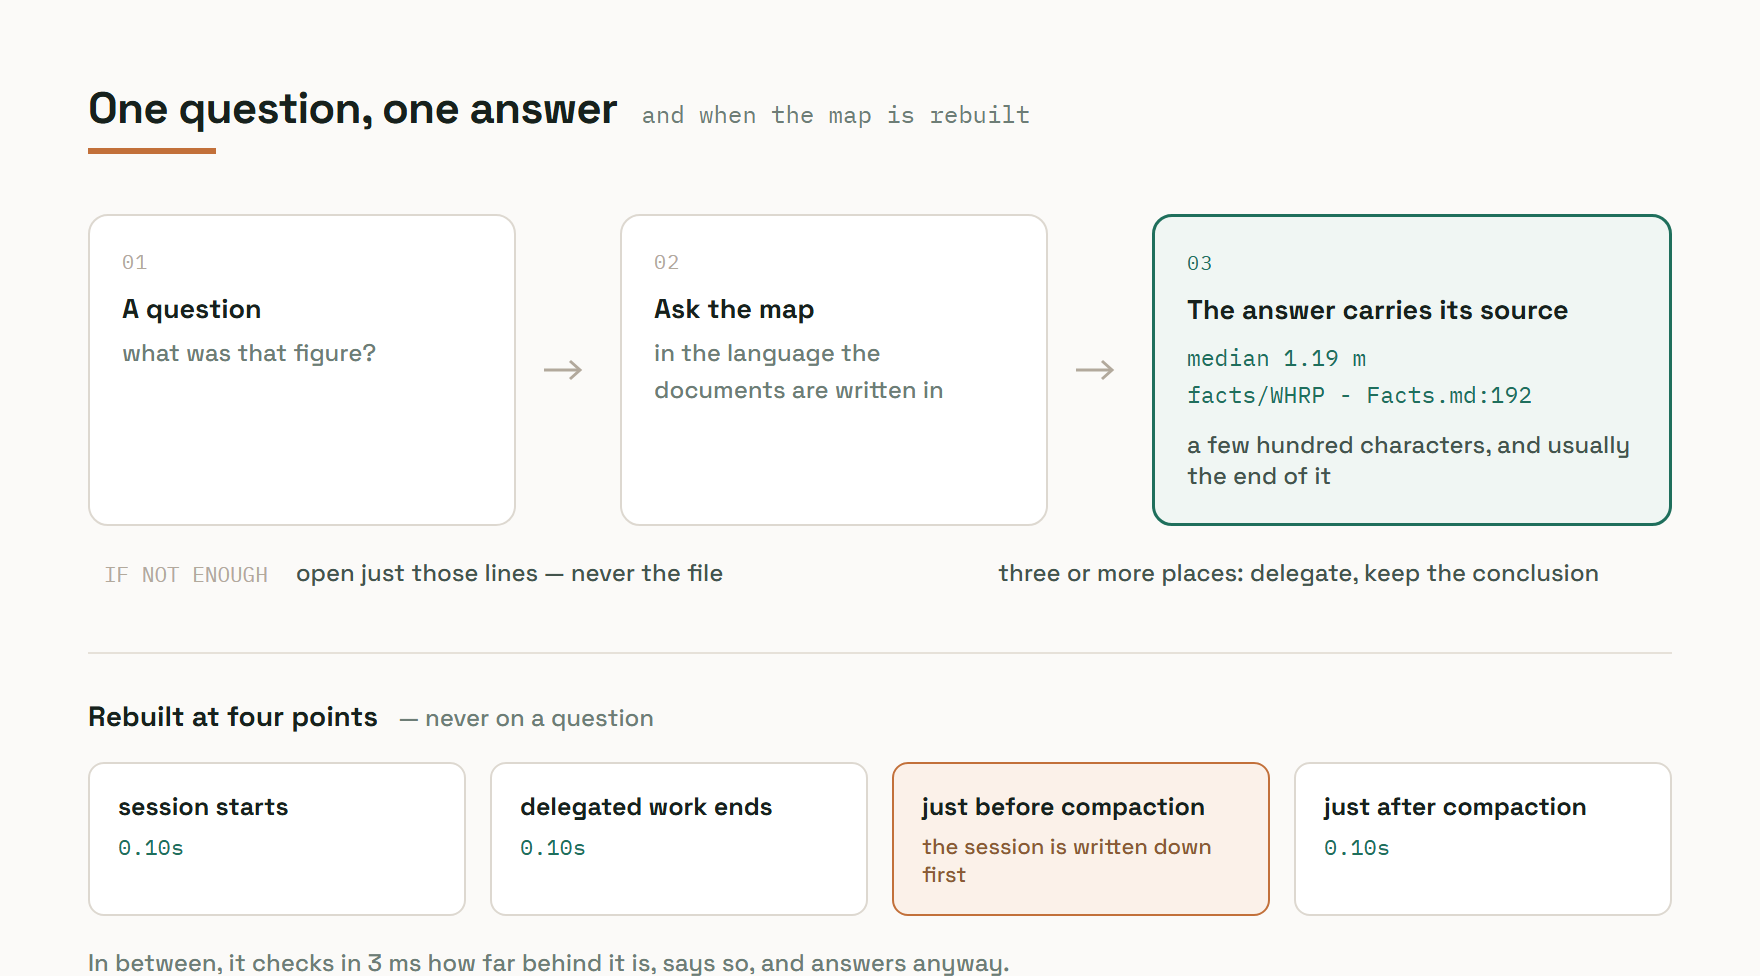
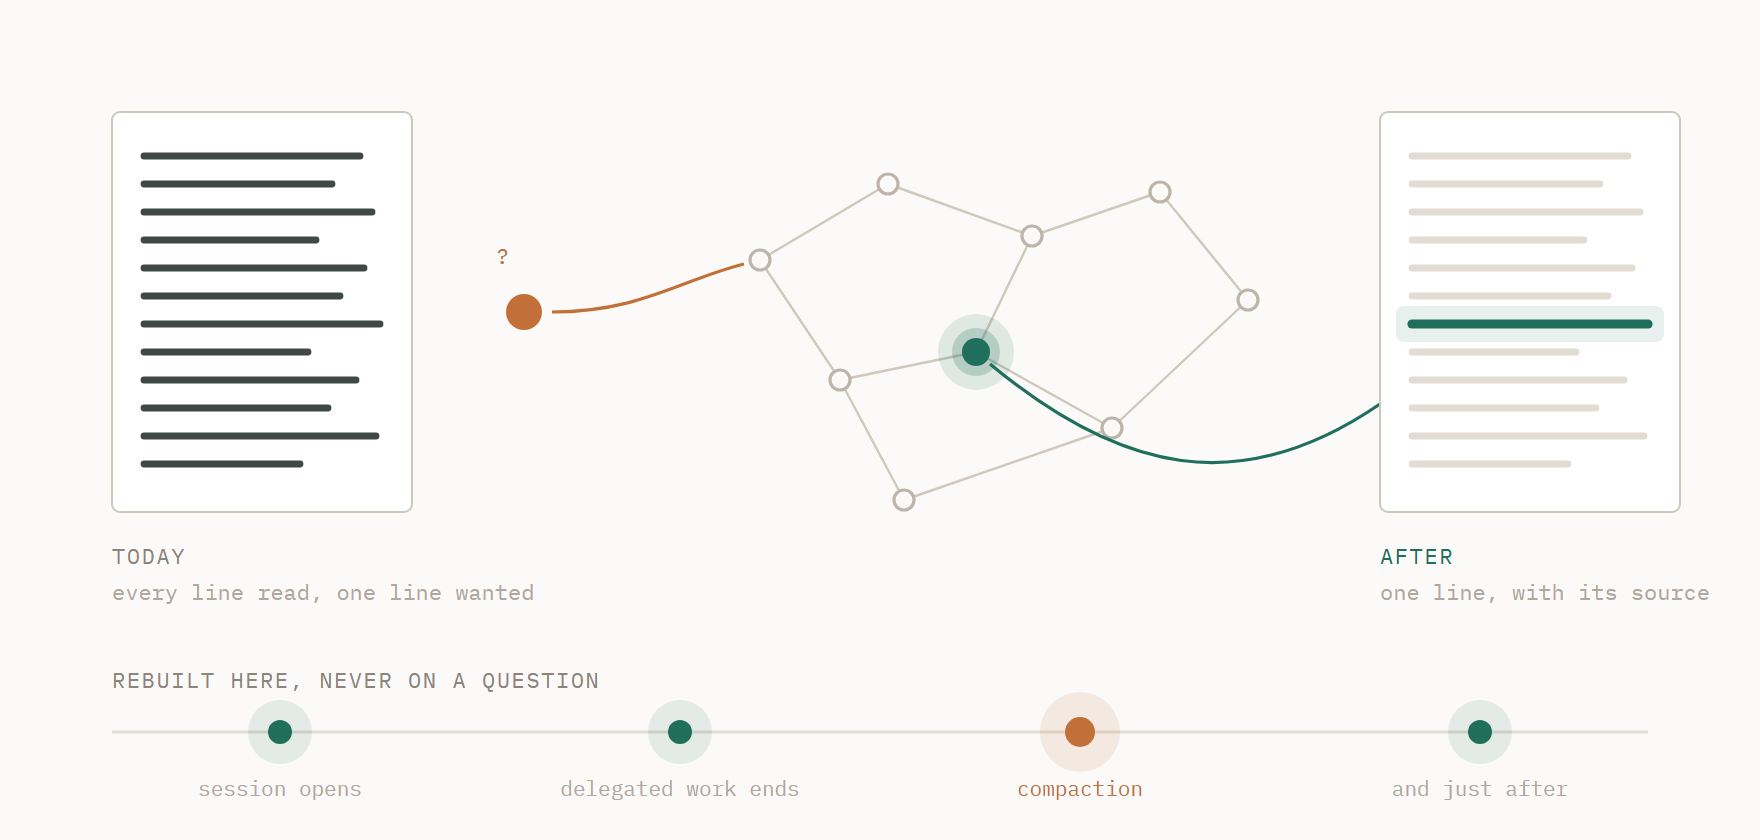
docs: redraw the readme diagrams as pictures rather than labelled boxes

diff --git a/design/Flow.dc.html b/design/Flow.dc.html
@@ -7,85 +7,87 @@
 <body>
 <x-dc>
 <helmet>
-  <link rel="stylesheet" href="https://fonts.googleapis.com/css2?family=Space+Grotesk:wght@500;700&family=IBM+Plex+Mono:wght@400;600&display=swap">
+  <link rel="stylesheet" href="https://fonts.googleapis.com/css2?family=IBM+Plex+Mono:wght@400;600&display=swap">
   <style>
     body { margin: 0; background: #fbfaf8; }
     a { color: #1f6f5c; } a:hover { color: #14503f; }
   </style>
 </helmet>
 
-<div style="width: 880px; padding: 40px 44px; box-sizing: border-box; background: #fbfaf8; font-family: 'Space Grotesk', ui-sans-serif, system-ui, sans-serif; color: #17211d;">
+<div style="width: 880px; height: 420px; background: #fbfaf8;">
+  <svg width="880" height="420" viewBox="0 0 880 420" fill="none" xmlns="http://www.w3.org/2000/svg"
+       font-family="'IBM Plex Mono', ui-monospace, monospace">
 
-  <div style="display: flex; align-items: baseline; gap: 12px; margin-bottom: 6px;">
-    <div style="font-size: 22px; font-weight: 700; letter-spacing: -0.4px;">One question, one answer</div>
-    <div style="font-family: 'IBM Plex Mono', ui-monospace, monospace; font-size: 12px; color: #6d7d76;">and when the map is rebuilt</div>
-  </div>
-  <div style="height: 3px; width: 64px; background: #c2703a; margin-bottom: 30px;"></div>
+    <!-- 왼쪽: 지금. 답 하나를 얻으려 페이지 전체를 읽습니다 -->
+    <rect x="56" y="56" width="150" height="200" rx="4" fill="#ffffff" stroke="#cfc8bd"/>
+    <g stroke="#17211d" stroke-width="3.4" stroke-linecap="round" opacity="0.82">
+      <path d="M72 78 H180"/><path d="M72 92 H166"/><path d="M72 106 H186"/>
+      <path d="M72 120 H158"/><path d="M72 134 H182"/><path d="M72 148 H170"/>
+      <path d="M72 162 H190"/><path d="M72 176 H154"/><path d="M72 190 H178"/>
+      <path d="M72 204 H164"/><path d="M72 218 H188"/><path d="M72 232 H150"/>
+    </g>
+    <text x="56" y="282" font-size="11" fill="#8d857a" letter-spacing="0.8">TODAY</text>
+    <text x="56" y="300" font-size="11" fill="#b0a89c">every line read, one line wanted</text>
 
-  <div style="display: flex; align-items: stretch; gap: 14px; margin-bottom: 14px;">
+    <!-- 가운데: 물음이 지도를 지나갑니다 -->
+    <circle cx="262" cy="156" r="9" fill="#c2703a"/>
+    <path d="M276 156 C320 156 340 140 372 132" stroke="#c2703a" stroke-width="1.6"/>
+    <text x="248" y="132" font-size="11" fill="#c2703a">?</text>
 
-    <div style="flex: 1 1 0; border: 1px solid #ddd8d0; border-radius: 10px; padding: 16px; background: #ffffff;">
-      <div style="font-family: 'IBM Plex Mono', ui-monospace, monospace; font-size: 10px; color: #b2a99c; letter-spacing: 0.6px; margin-bottom: 8px;">01</div>
-      <div style="font-size: 13.5px; font-weight: 700;">A question</div>
-      <div style="font-size: 12px; color: #6d7d76; line-height: 1.55; margin-top: 4px;">what was that figure?</div>
-    </div>
+    <g stroke="#cfc8bd" stroke-width="1.2">
+      <path d="M380 130 L444 92"/><path d="M380 130 L420 190"/>
+      <path d="M444 92 L516 118"/><path d="M420 190 L488 176"/>
+      <path d="M516 118 L488 176"/><path d="M488 176 L556 214"/>
+      <path d="M516 118 L580 96"/><path d="M420 190 L452 250"/>
+      <path d="M452 250 L556 214"/><path d="M580 96 L624 150"/>
+      <path d="M624 150 L556 214"/>
+    </g>
+    <g fill="#fbfaf8" stroke="#bdb5a9" stroke-width="1.6">
+      <circle cx="380" cy="130" r="5"/><circle cx="444" cy="92" r="5"/>
+      <circle cx="420" cy="190" r="5"/><circle cx="516" cy="118" r="5"/>
+      <circle cx="452" cy="250" r="5"/><circle cx="580" cy="96" r="5"/>
+      <circle cx="624" cy="150" r="5"/><circle cx="556" cy="214" r="5"/>
+    </g>
 
-    <div style="flex: 0 0 24px; display: flex; align-items: center; justify-content: center;">
-      <svg width="24" height="14" viewBox="0 0 24 14" fill="none" stroke="#b2a99c" stroke-width="1.5"><path d="M0 7 H18"/><path d="M13 2.5 L18 7 L13 11.5"/></svg>
-    </div>
+    <!-- 하나만 켜집니다 -->
+    <circle cx="488" cy="176" r="19" fill="#1f6f5c" opacity="0.12"/>
+    <circle cx="488" cy="176" r="12" fill="#1f6f5c" opacity="0.22"/>
+    <circle cx="488" cy="176" r="7" fill="#1f6f5c"/>
 
-    <div style="flex: 1 1 0; border: 1px solid #ddd8d0; border-radius: 10px; padding: 16px; background: #ffffff;">
-      <div style="font-family: 'IBM Plex Mono', ui-monospace, monospace; font-size: 10px; color: #b2a99c; letter-spacing: 0.6px; margin-bottom: 8px;">02</div>
-      <div style="font-size: 13.5px; font-weight: 700;">Ask the map</div>
-      <div style="font-size: 12px; color: #6d7d76; line-height: 1.55; margin-top: 4px;">in the language the documents are written in</div>
-    </div>
+    <!-- 켜진 점이 자기 줄로 실을 내립니다 -->
+    <path d="M495 182 C560 236 620 250 690 202" stroke="#1f6f5c" stroke-width="1.6"/>
 
-    <div style="flex: 0 0 24px; display: flex; align-items: center; justify-content: center;">
-      <svg width="24" height="14" viewBox="0 0 24 14" fill="none" stroke="#b2a99c" stroke-width="1.5"><path d="M0 7 H18"/><path d="M13 2.5 L18 7 L13 11.5"/></svg>
-    </div>
+    <!-- 오른쪽: 그 줄 하나만 열립니다 -->
+    <rect x="690" y="56" width="150" height="200" rx="4" fill="#ffffff" stroke="#cfc8bd"/>
+    <g stroke="#e2dcd2" stroke-width="3.4" stroke-linecap="round">
+      <path d="M706 78 H814"/><path d="M706 92 H800"/><path d="M706 106 H820"/>
+      <path d="M706 120 H792"/><path d="M706 134 H816"/><path d="M706 148 H804"/>
+      <path d="M706 176 H788"/><path d="M706 190 H812"/>
+      <path d="M706 204 H798"/><path d="M706 218 H822"/><path d="M706 232 H784"/>
+    </g>
+    <path d="M706 162 H824" stroke="#1f6f5c" stroke-width="4.6" stroke-linecap="round"/>
+    <rect x="698" y="153" width="134" height="18" rx="4" fill="#1f6f5c" opacity="0.10"/>
+    <text x="690" y="282" font-size="11" fill="#1f6f5c" letter-spacing="0.8">AFTER</text>
+    <text x="690" y="300" font-size="11" fill="#b0a89c">one line, with its source</text>
 
-    <div style="flex: 1.25 1 0; border: 1.5px solid #1f6f5c; border-radius: 10px; padding: 16px; background: #f0f6f3;">
-      <div style="font-family: 'IBM Plex Mono', ui-monospace, monospace; font-size: 10px; color: #1f6f5c; letter-spacing: 0.6px; margin-bottom: 8px;">03</div>
-      <div style="font-size: 13.5px; font-weight: 700;">The answer carries its source</div>
-      <div style="font-family: 'IBM Plex Mono', ui-monospace, monospace; font-size: 11.5px; color: #1f6f5c; line-height: 1.6; margin-top: 6px;">median 1.19 m<br>facts/WHRP - Facts.md:192</div>
-      <div style="font-size: 12px; color: #43544d; margin-top: 8px;">a few hundred characters, and usually the end of it</div>
-    </div>
-  </div>
-
-  <div style="display: flex; gap: 14px; margin-bottom: 30px; padding-left: 8px;">
-    <div style="flex: 0 0 auto; font-family: 'IBM Plex Mono', ui-monospace, monospace; font-size: 10.5px; color: #b2a99c; padding-top: 3px;">IF NOT ENOUGH</div>
-    <div style="flex: 1 1 0; font-size: 12px; color: #43544d; line-height: 1.6;">open just those lines — never the file</div>
-    <div style="flex: 1 1 0; font-size: 12px; color: #43544d; line-height: 1.6;">three or more places: delegate, keep the conclusion</div>
-  </div>
-
-  <div style="border-top: 1px solid #e6e1d9; padding-top: 22px;">
-    <div style="display: flex; align-items: baseline; gap: 10px; margin-bottom: 14px;">
-      <div style="font-size: 14px; font-weight: 700;">Rebuilt at four points</div>
-      <div style="font-size: 12px; color: #6d7d76;">— never on a question</div>
-    </div>
-
-    <div style="display: grid; grid-template-columns: repeat(4, minmax(0, 1fr)); gap: 12px;">
-      <div style="border: 1px solid #ddd8d0; border-radius: 8px; padding: 13px 14px; background: #ffffff;">
-        <div style="font-size: 12.5px; font-weight: 700;">session starts</div>
-        <div style="font-family: 'IBM Plex Mono', ui-monospace, monospace; font-size: 11px; color: #1f6f5c; margin-top: 5px;">0.10s</div>
-      </div>
-      <div style="border: 1px solid #ddd8d0; border-radius: 8px; padding: 13px 14px; background: #ffffff;">
-        <div style="font-size: 12.5px; font-weight: 700;">delegated work ends</div>
-        <div style="font-family: 'IBM Plex Mono', ui-monospace, monospace; font-size: 11px; color: #1f6f5c; margin-top: 5px;">0.10s</div>
-      </div>
-      <div style="border: 1px solid #c2703a; border-radius: 8px; padding: 13px 14px; background: #fbf1e9;">
-        <div style="font-size: 12.5px; font-weight: 700;">just before compaction</div>
-        <div style="font-size: 11px; color: #8a5a33; margin-top: 5px;">the session is written down first</div>
-      </div>
-      <div style="border: 1px solid #ddd8d0; border-radius: 8px; padding: 13px 14px; background: #ffffff;">
-        <div style="font-size: 12.5px; font-weight: 700;">just after compaction</div>
-        <div style="font-family: 'IBM Plex Mono', ui-monospace, monospace; font-size: 11px; color: #1f6f5c; margin-top: 5px;">0.10s</div>
-      </div>
-    </div>
-
-    <div style="font-size: 12px; color: #6d7d76; margin-top: 14px; line-height: 1.6;">In between, it checks in 3 ms how far behind it is, says so, and answers anyway.</div>
-  </div>
-
+    <!-- 아래: 지도가 다시 만들어지는 자리 넷 -->
+    <path d="M56 366 H824" stroke="#e2dcd2" stroke-width="1.4"/>
+    <g>
+      <circle cx="140" cy="366" r="16" fill="#1f6f5c" opacity="0.10"/>
+      <circle cx="140" cy="366" r="6" fill="#1f6f5c"/>
+      <circle cx="340" cy="366" r="16" fill="#1f6f5c" opacity="0.10"/>
+      <circle cx="340" cy="366" r="6" fill="#1f6f5c"/>
+      <circle cx="540" cy="366" r="20" fill="#c2703a" opacity="0.12"/>
+      <circle cx="540" cy="366" r="7.5" fill="#c2703a"/>
+      <circle cx="740" cy="366" r="16" fill="#1f6f5c" opacity="0.10"/>
+      <circle cx="740" cy="366" r="6" fill="#1f6f5c"/>
+    </g>
+    <text x="56" y="344" font-size="11" fill="#8d857a" letter-spacing="0.8">REBUILT HERE, NEVER ON A QUESTION</text>
+    <text x="140" y="398" font-size="10.5" fill="#b0a89c" text-anchor="middle">session opens</text>
+    <text x="340" y="398" font-size="10.5" fill="#b0a89c" text-anchor="middle">delegated work ends</text>
+    <text x="540" y="398" font-size="10.5" fill="#c2703a" text-anchor="middle">compaction</text>
+    <text x="740" y="398" font-size="10.5" fill="#b0a89c" text-anchor="middle">and just after</text>
+  </svg>
 </div>
 </x-dc>
 <script data-dc-script data-props='{}'>

diff --git a/design/Main.dc.html b/design/Main.dc.html
@@ -7,83 +7,102 @@
 <body>
 <x-dc>
 <helmet>
-  <link rel="stylesheet" href="https://fonts.googleapis.com/css2?family=Space+Grotesk:wght@500;700&family=IBM+Plex+Mono:wght@400;600&display=swap">
+  <link rel="stylesheet" href="https://fonts.googleapis.com/css2?family=IBM+Plex+Mono:wght@400;600&display=swap">
   <style>
     body { margin: 0; background: #fbfaf8; }
     a { color: #1f6f5c; } a:hover { color: #14503f; }
   </style>
 </helmet>
 
-<div style="width: 880px; padding: 40px 44px; box-sizing: border-box; background: #fbfaf8; font-family: 'Space Grotesk', ui-sans-serif, system-ui, sans-serif; color: #17211d;">
+<div style="width: 880px; height: 380px; background: #fbfaf8;">
+  <svg width="880" height="380" viewBox="0 0 880 380" fill="none" xmlns="http://www.w3.org/2000/svg"
+       font-family="'IBM Plex Mono', ui-monospace, monospace">
 
-  <div style="display: flex; align-items: baseline; gap: 12px; margin-bottom: 6px;">
-    <div style="font-size: 22px; font-weight: 700; letter-spacing: -0.4px;">How the map is built</div>
-    <div style="font-family: 'IBM Plex Mono', ui-monospace, monospace; font-size: 12px; color: #6d7d76;">nothing is guessed</div>
-  </div>
-  <div style="height: 3px; width: 64px; background: #1f6f5c; margin-bottom: 30px;"></div>
+    <!-- 쌓인 문서. 뒤의 두 장은 기울여 두께를 보입니다 -->
+    <g opacity="0.35">
+      <rect x="54" y="86" width="150" height="196" rx="4" fill="#ffffff" stroke="#d8d2c8" transform="rotate(-7 129 184)"/>
+      <rect x="62" y="80" width="150" height="196" rx="4" fill="#ffffff" stroke="#d8d2c8" transform="rotate(-3.5 137 178)"/>
+    </g>
+    <rect x="70" y="74" width="150" height="196" rx="4" fill="#ffffff" stroke="#cfc8bd"/>
 
-  <div style="display: flex; align-items: stretch; gap: 20px;">
+    <!-- 문서 안의 글줄. 대부분은 그냥 회색 -->
+    <g stroke="#d3ccc1" stroke-width="3" stroke-linecap="round">
+      <path d="M86 96 H176"/>
+      <path d="M86 108 H196"/>
+      <path d="M86 132 H168"/>
+      <path d="M86 156 H190"/>
+      <path d="M86 168 H150"/>
+      <path d="M86 216 H186"/>
+      <path d="M86 240 H162"/>
+      <path d="M86 252 H196"/>
+    </g>
 
-    <div style="flex: 0 0 236px; display: flex; flex-direction: column; gap: 10px; border: 1px solid #ddd8d0; border-radius: 10px; padding: 18px; background: #ffffff;">
-      <div style="font-size: 14px; font-weight: 700;">Your documents</div>
-      <div style="font-family: 'IBM Plex Mono', ui-monospace, monospace; font-size: 11px; color: #6d7d76; margin-bottom: 2px;">markdown &amp; html · read only</div>
+    <!-- 값이 든 줄과 관계를 적은 줄만 색이 있습니다 -->
+    <g stroke-width="4" stroke-linecap="round">
+      <path d="M86 120 H184" stroke="#1f6f5c"/>
+      <path d="M86 144 H172" stroke="#1f6f5c"/>
+      <path d="M86 228 H178" stroke="#c2703a"/>
+      <path d="M86 204 H166" stroke="#1f6f5c"/>
+    </g>
 
-      <div style="border-left: 3px solid #1f6f5c; padding: 8px 0 8px 12px;">
-        <div style="font-size: 13px; font-weight: 700;">Statements</div>
-        <div style="font-size: 12px; color: #6d7d76; line-height: 1.5;">the figures live in these</div>
-      </div>
+    <!-- 그 줄들이 그대로 건너가 점과 이음이 됩니다 -->
+    <g fill="none" stroke-width="1.6" opacity="0.85">
+      <path d="M188 120 C300 116 380 92 470 96" stroke="#1f6f5c"/>
+      <path d="M176 144 C300 148 400 168 512 158" stroke="#1f6f5c"/>
+      <path d="M170 204 C300 208 396 236 500 232" stroke="#1f6f5c"/>
+      <path d="M182 228 C300 244 392 286 476 292" stroke="#c2703a"/>
+    </g>
 
-      <div style="border-left: 3px solid #c2703a; padding: 8px 0 8px 12px;">
-        <div style="font-size: 13px; font-weight: 700;">Relations you wrote</div>
-        <div style="font-family: 'IBM Plex Mono', ui-monospace, monospace; font-size: 11px; color: #6d7d76; line-height: 1.6;">- supersedes [[...]]</div>
-      </div>
-    </div>
+    <!-- 지도. 점은 문장이고 선은 적어 둔 관계입니다 -->
+    <g stroke="#b9b2a7" stroke-width="1.2">
+      <path d="M478 96 L556 60"/>
+      <path d="M478 96 L520 158"/>
+      <path d="M520 158 L604 140"/>
+      <path d="M604 140 L688 104"/>
+      <path d="M604 140 L664 200"/>
+      <path d="M508 232 L604 140"/>
+      <path d="M508 232 L586 268"/>
+      <path d="M586 268 L664 200"/>
+      <path d="M484 292 L586 268"/>
+      <path d="M664 200 L744 168"/>
+      <path d="M744 168 L688 104"/>
+      <path d="M744 168 L800 232"/>
+      <path d="M586 268 L692 302"/>
+      <path d="M692 302 L800 232"/>
+    </g>
+    <g stroke="#c2703a" stroke-width="1.8">
+      <path d="M484 292 L586 268"/>
+      <path d="M508 232 L604 140"/>
+    </g>
 
-    <div style="flex: 0 0 32px; display: flex; flex-direction: column; align-items: center; justify-content: center; gap: 6px;">
-      <svg width="32" height="16" viewBox="0 0 32 16" fill="none" stroke="#1f6f5c" stroke-width="1.6">
-        <path d="M0 8 H26" /><path d="M20 3 L26 8 L20 13" />
-      </svg>
-      <div style="font-family: 'IBM Plex Mono', ui-monospace, monospace; font-size: 10px; color: #1f6f5c; letter-spacing: 0.4px;">COPY</div>
-    </div>
+    <g>
+      <circle cx="556" cy="60" r="5" fill="#fbfaf8" stroke="#a49c90" stroke-width="1.6"/>
+      <circle cx="688" cy="104" r="5" fill="#fbfaf8" stroke="#a49c90" stroke-width="1.6"/>
+      <circle cx="664" cy="200" r="5" fill="#fbfaf8" stroke="#a49c90" stroke-width="1.6"/>
+      <circle cx="744" cy="168" r="5" fill="#fbfaf8" stroke="#a49c90" stroke-width="1.6"/>
+      <circle cx="800" cy="232" r="5" fill="#fbfaf8" stroke="#a49c90" stroke-width="1.6"/>
+      <circle cx="692" cy="302" r="5" fill="#fbfaf8" stroke="#a49c90" stroke-width="1.6"/>
+      <circle cx="586" cy="268" r="5" fill="#fbfaf8" stroke="#a49c90" stroke-width="1.6"/>
 
-    <div style="flex: 0 0 216px; display: flex; flex-direction: column; justify-content: center; gap: 10px; border: 1.5px solid #1f6f5c; border-radius: 10px; padding: 20px 18px; background: #f0f6f3;">
-      <div style="font-size: 15px; font-weight: 700; line-height: 1.35;">Copied across,<br>never inferred</div>
-      <div style="font-size: 12px; color: #43544d; line-height: 1.6;">statement becomes a node, word for word · the relation keeps its own name · every node carries its file and line</div>
-      <div style="display: flex; flex-direction: column; gap: 2px; margin-top: 4px; padding-top: 12px; border-top: 1px solid #cfe0d8;">
-        <div style="font-family: 'IBM Plex Mono', ui-monospace, monospace; font-size: 18px; font-weight: 600; color: #1f6f5c;">0.10s</div>
-        <div style="font-size: 11.5px; color: #6d7d76;">175 documents · no model calls</div>
-      </div>
-    </div>
+      <circle cx="478" cy="96" r="7" fill="#1f6f5c"/>
+      <circle cx="520" cy="158" r="7" fill="#1f6f5c"/>
+      <circle cx="508" cy="232" r="7" fill="#1f6f5c"/>
+      <circle cx="484" cy="292" r="7" fill="#c2703a"/>
+      <circle cx="604" cy="140" r="8.5" fill="#1f6f5c"/>
+    </g>
 
-    <div style="flex: 0 0 32px; display: flex; align-items: center; justify-content: center;">
-      <svg width="32" height="16" viewBox="0 0 32 16" fill="none" stroke="#17211d" stroke-width="1.6">
-        <path d="M0 8 H26" /><path d="M20 3 L26 8 L20 13" />
-      </svg>
-    </div>
+    <!-- 어느 점이든 자기가 나온 줄로 되짚어 갑니다 -->
+    <path d="M604 148 C600 236 420 262 232 216" stroke="#1f6f5c" stroke-width="1.2"
+          stroke-dasharray="3 4" opacity="0.75"/>
+    <circle cx="228" cy="214" r="3" fill="#1f6f5c"/>
 
-    <div style="flex: 1 1 auto; display: flex; flex-direction: column; gap: 8px;">
-      <div style="font-size: 14px; font-weight: 700; margin-bottom: 2px;">One map answers three ways</div>
+    <text x="70" y="300" font-size="11" fill="#8d857a" letter-spacing="0.8">YOUR PAGES</text>
+    <text x="70" y="318" font-size="11" fill="#b0a89c">what you already wrote</text>
+    <text x="478" y="340" font-size="11" fill="#8d857a" letter-spacing="0.8">THE MAP</text>
+    <text x="478" y="358" font-size="11" fill="#b0a89c">the same lines, and the threads back to them</text>
 
-      <div style="display: flex; align-items: baseline; gap: 10px; border-bottom: 1px solid #e6e1d9; padding-bottom: 8px;">
-        <div style="flex: 0 0 76px; font-size: 13px; font-weight: 700; color: #1f6f5c;">Value</div>
-        <div style="font-size: 12.5px; color: #43544d;">the statement, and <span style="font-family: 'IBM Plex Mono', ui-monospace, monospace;">file:line</span></div>
-      </div>
-      <div style="display: flex; align-items: baseline; gap: 10px; border-bottom: 1px solid #e6e1d9; padding-bottom: 8px;">
-        <div style="flex: 0 0 76px; font-size: 13px; font-weight: 700; color: #1f6f5c;">Connection</div>
-        <div style="font-size: 12.5px; color: #43544d;">what touches what</div>
-      </div>
-      <div style="display: flex; align-items: baseline; gap: 10px; border-bottom: 1px solid #e6e1d9; padding-bottom: 8px;">
-        <div style="flex: 0 0 76px; font-size: 13px; font-weight: 700; color: #1f6f5c;">Lineage</div>
-        <div style="font-size: 12.5px; color: #43544d;">what superseded what</div>
-      </div>
-
-      <div style="margin-top: 10px; padding: 14px 16px; background: #17211d; border-radius: 8px;">
-        <div style="font-size: 13.5px; font-weight: 700; color: #f5f2ec;">Open only the line it cites</div>
-        <div style="font-size: 12px; color: #a8b5ae; margin-top: 3px;">never the whole file</div>
-      </div>
-    </div>
-
-  </div>
+    <text x="286" y="72" font-size="11" fill="#1f6f5c" letter-spacing="0.8">COPIED, NOT INFERRED</text>
+  </svg>
 </div>
 </x-dc>
 <script data-dc-script data-props='{}'>
